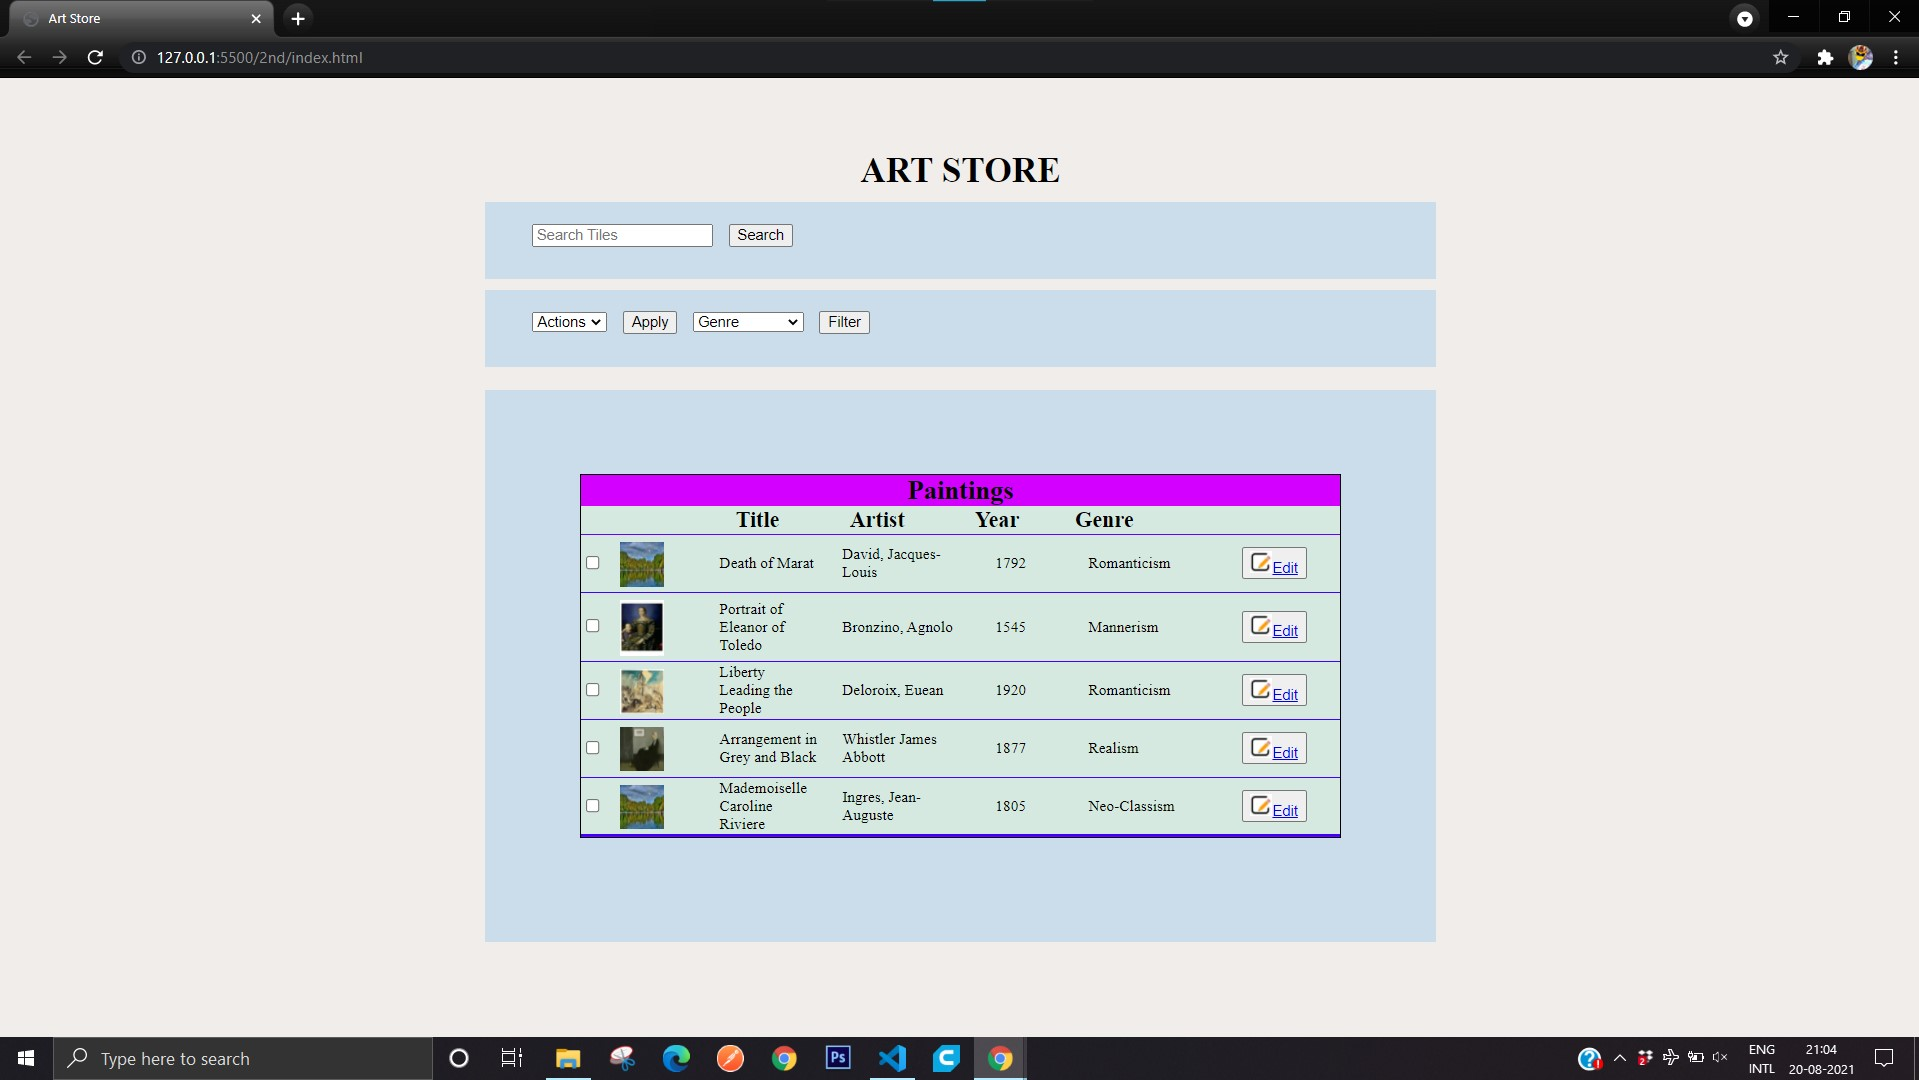
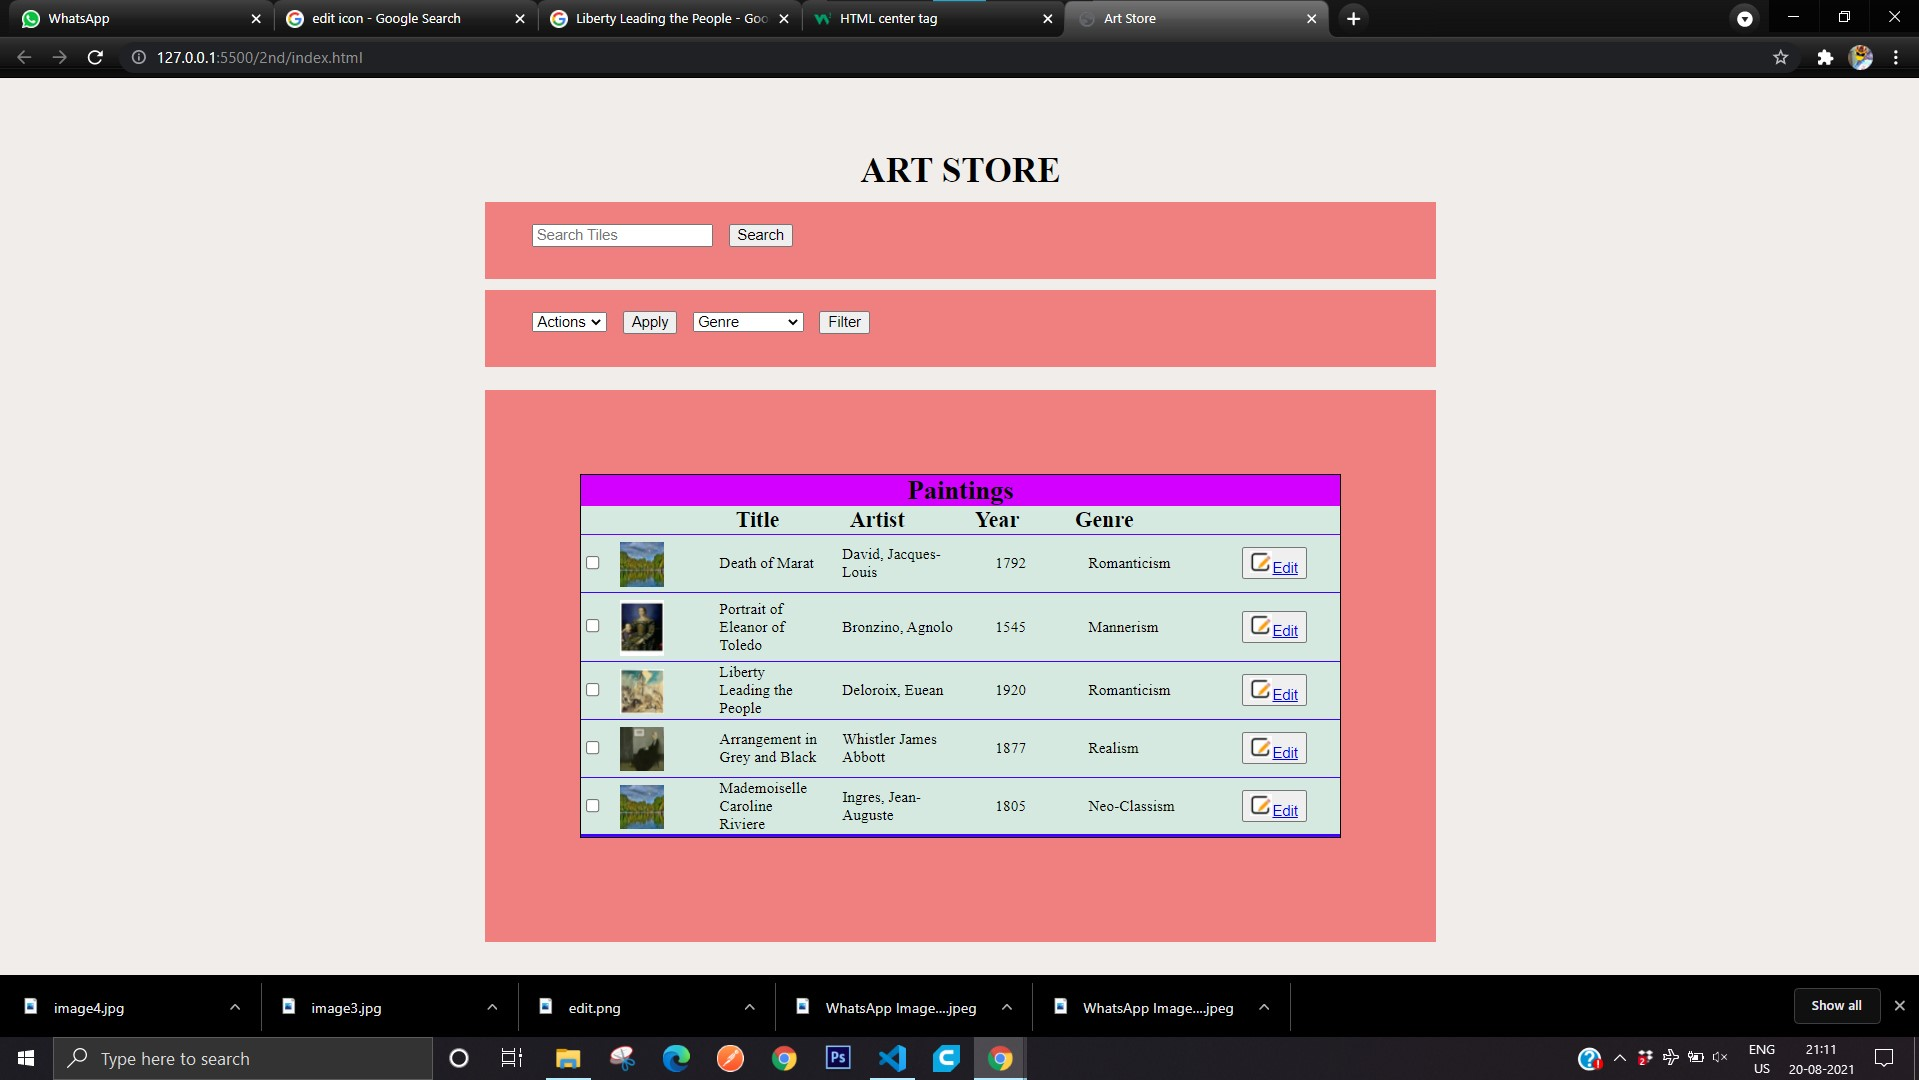
2nd assingment image

Changed region(s): [[0.0, 0.1833, 1.0, 1.0], [0.0, 0.0, 0.7071, 0.0611]]

diff --git a/2nd/index.html b/2nd/index.html
@@ -18,8 +18,8 @@
   width: 50%;
   margin: auto;
   margin-top: 10px;
-  background-color: rgba(56, 150, 238, 0.2);
-  border: 1px rgb(48, 131, 209);
+  background-color: lightcoral;
+  border: 1px rgb(0, 0, 0);
 }
 .table-square {
   height: 500px;
